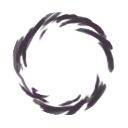
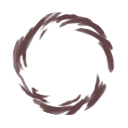
Updated Energy Orn and turned it into a Double Energy Orb that tracks the mouse position

Changed region(s): [[0.0938, 0.0938, 0.9062, 0.5938], [0.1562, 0.5938, 0.8438, 0.9062], [0.3125, 0.25, 0.3438, 0.2812]]

diff --git a/TheM10Robot/src/main/java/M10Robot/characters/DoubleEnergyOrb.java b/TheM10Robot/src/main/java/M10Robot/characters/DoubleEnergyOrb.java
@@ -1,0 +1,180 @@
+package M10Robot.characters;
+
+import M10Robot.patches.RenderButtonOnCardPatch;
+import basemod.abstracts.CustomEnergyOrb;
+import com.badlogic.gdx.Gdx;
+import com.badlogic.gdx.graphics.Color;
+import com.badlogic.gdx.graphics.Texture;
+import com.badlogic.gdx.graphics.g2d.SpriteBatch;
+import com.badlogic.gdx.math.MathUtils;
+import com.badlogic.gdx.math.Vector2;
+import com.evacipated.cardcrawl.modthespire.lib.SpireField;
+import com.evacipated.cardcrawl.modthespire.lib.SpirePatch;
+import com.evacipated.cardcrawl.modthespire.lib.SpirePrefixPatch;
+import com.megacrit.cardcrawl.cards.AbstractCard;
+import com.megacrit.cardcrawl.characters.AbstractPlayer;
+import com.megacrit.cardcrawl.core.Settings;
+import com.megacrit.cardcrawl.dungeons.AbstractDungeon;
+import com.megacrit.cardcrawl.helpers.ImageMaster;
+import com.megacrit.cardcrawl.helpers.input.InputHelper;
+import com.megacrit.cardcrawl.ui.panels.EnergyPanel;
+
+import java.util.HashMap;
+
+public class DoubleEnergyOrb extends CustomEnergyOrb {
+    private static final int SECOND_ORB_W = 128;
+    private static final int PRIMARY_ORB_W = 128;
+    private static final float SECOND_ORB_IMG_SCALE = 0.75F * Settings.scale;
+    private static final float PRIMARY_ORB_IMG_SCALE = 1.15F * Settings.scale;
+    private static final float X_OFFSET = 80f * Settings.scale;
+    private static final float Y_OFFSET = 40f * Settings.scale;
+    private static final float MAX_LEAN_PER_LAYER = 4f * Settings.scale;
+    private static final float MAX_LEAN_AT_DISTANCE = 500f * Settings.scale;
+    protected Texture secondBaseLayer;
+    protected Texture[] secondEnergyLayers;
+    protected Texture[] secondNoEnergyLayers;
+    protected float[] secondLayerSpeeds;
+    protected float[] secondAngles;
+    protected float[] primaryXLean;
+    protected float[] primaryYLean;
+    protected float[] secondaryXLean;
+    protected float[] secondaryYLean;
+
+    public DoubleEnergyOrb(String[] orbTexturePaths, String orbVfxPath, float[] layerSpeeds) {
+        super(orbTexturePaths, orbVfxPath, layerSpeeds);
+        if (orbTexturePaths != null && orbVfxPath != null) {
+            assert orbTexturePaths.length >= 3;
+
+            assert orbTexturePaths.length % 2 == 1;
+
+            int middleIdx = orbTexturePaths.length / 2;
+            System.out.println(middleIdx);
+            this.secondEnergyLayers = new Texture[middleIdx];
+            this.secondNoEnergyLayers = new Texture[middleIdx];
+            this.secondBaseLayer = ImageMaster.loadImage(orbTexturePaths[middleIdx]);
+
+            for(int i = 0; i < middleIdx; ++i) {
+                this.secondEnergyLayers[i] = ImageMaster.loadImage(orbTexturePaths[i]);
+                this.secondNoEnergyLayers[i] = ImageMaster.loadImage(orbTexturePaths[i + middleIdx + 1]);
+            }
+
+            this.orbVfx = ImageMaster.loadImage(orbVfxPath);
+        } else {
+            this.secondEnergyLayers = new Texture[5];
+            this.secondNoEnergyLayers = new Texture[5];
+            this.secondBaseLayer = ImageMaster.ENERGY_RED_LAYER6;
+            this.secondEnergyLayers[0] = ImageMaster.ENERGY_RED_LAYER1;
+            this.secondEnergyLayers[1] = ImageMaster.ENERGY_RED_LAYER2;
+            this.secondEnergyLayers[2] = ImageMaster.ENERGY_RED_LAYER3;
+            this.secondEnergyLayers[3] = ImageMaster.ENERGY_RED_LAYER4;
+            this.secondEnergyLayers[4] = ImageMaster.ENERGY_RED_LAYER5;
+            this.secondNoEnergyLayers[0] = ImageMaster.ENERGY_RED_LAYER1D;
+            this.secondNoEnergyLayers[1] = ImageMaster.ENERGY_RED_LAYER2D;
+            this.secondNoEnergyLayers[2] = ImageMaster.ENERGY_RED_LAYER3D;
+            this.secondNoEnergyLayers[3] = ImageMaster.ENERGY_RED_LAYER4D;
+            this.secondNoEnergyLayers[4] = ImageMaster.ENERGY_RED_LAYER5D;
+        }
+
+        if (layerSpeeds == null) {
+            layerSpeeds = new float[]{-20.0F, 20.0F, -40.0F, 40.0F, 360.0F};
+        }
+
+        this.secondLayerSpeeds = layerSpeeds;
+        this.secondAngles = new float[this.secondLayerSpeeds.length];
+        this.primaryXLean = new float[this.energyLayers.length];
+        this.primaryYLean = new float[this.energyLayers.length];
+        this.secondaryXLean = new float[this.secondEnergyLayers.length];
+        this.secondaryYLean = new float[this.secondEnergyLayers.length];
+
+        assert this.secondEnergyLayers.length == this.secondLayerSpeeds.length;
+
+    }
+
+    public Texture getEnergyImage() {
+        return this.orbVfx;
+    }
+
+    public void updateOrb(int energyCount) {
+        super.updateOrb(energyCount);
+        int d = this.secondAngles.length;
+        for (int i = 0 ; i < this.secondAngles.length ; i++) {
+            if (energyCount == 0) {
+                this.secondAngles[i] -= Gdx.graphics.getDeltaTime() * this.secondLayerSpeeds[d-1-i] / 4.0F;
+            } else {
+                this.secondAngles[i] -= Gdx.graphics.getDeltaTime() * this.secondLayerSpeeds[d-1-i];
+            }
+        }
+    }
+
+    public void renderOrb(SpriteBatch sb, boolean enabled, float current_x, float current_y) {
+        calculateLeanValues(current_x, current_y, enabled);
+        sb.setColor(Color.WHITE);
+        int i;
+        if (enabled) {
+            for(i = 0; i < this.secondEnergyLayers.length; ++i) {
+                sb.draw(this.secondEnergyLayers[i], current_x + secondaryXLean[i] + X_OFFSET - SECOND_ORB_W /2F, current_y + secondaryYLean[i] + Y_OFFSET - SECOND_ORB_W /2F, SECOND_ORB_W /2F, SECOND_ORB_W /2F, SECOND_ORB_W, SECOND_ORB_W, SECOND_ORB_IMG_SCALE, SECOND_ORB_IMG_SCALE, this.secondAngles[i], 0, 0, SECOND_ORB_W, SECOND_ORB_W, false, false);
+            }
+        } else {
+            for(i = 0; i < this.secondNoEnergyLayers.length; ++i) {
+                sb.draw(this.secondNoEnergyLayers[i], current_x + secondaryXLean[i] + X_OFFSET - SECOND_ORB_W /2F, current_y + secondaryYLean[i] + Y_OFFSET - SECOND_ORB_W /2F, SECOND_ORB_W /2F, SECOND_ORB_W /2F, SECOND_ORB_W, SECOND_ORB_W, SECOND_ORB_IMG_SCALE, SECOND_ORB_IMG_SCALE, this.secondAngles[i], 0, 0, SECOND_ORB_W, SECOND_ORB_W, false, false);
+            }
+        }
+        sb.draw(this.secondBaseLayer, current_x + X_OFFSET - SECOND_ORB_W /2F, current_y + Y_OFFSET - SECOND_ORB_W /2F, SECOND_ORB_W /2F, SECOND_ORB_W /2F, SECOND_ORB_W, SECOND_ORB_W, SECOND_ORB_IMG_SCALE, SECOND_ORB_IMG_SCALE, 0.0F, 0, 0, SECOND_ORB_W, SECOND_ORB_W, false, false);
+
+        if (enabled) {
+            for(i = 0; i < this.energyLayers.length; ++i) {
+                sb.draw(this.energyLayers[i], current_x + primaryXLean[i] - PRIMARY_ORB_W/2F, current_y + primaryYLean[i] - PRIMARY_ORB_W/2F, PRIMARY_ORB_W/2F, PRIMARY_ORB_W/2F, PRIMARY_ORB_W, PRIMARY_ORB_W, PRIMARY_ORB_IMG_SCALE, PRIMARY_ORB_IMG_SCALE, this.angles[i], 0, 0, 128, 128, false, false);
+            }
+        } else {
+            for(i = 0; i < this.noEnergyLayers.length; ++i) {
+                sb.draw(this.noEnergyLayers[i], current_x + primaryXLean[i] - PRIMARY_ORB_W/2F, current_y  + primaryYLean[i] - PRIMARY_ORB_W/2F, PRIMARY_ORB_W/2F, PRIMARY_ORB_W/2F, PRIMARY_ORB_W, PRIMARY_ORB_W, PRIMARY_ORB_IMG_SCALE, PRIMARY_ORB_IMG_SCALE, this.angles[i], 0, 0, 128, 128, false, false);
+            }
+        }
+
+        sb.draw(this.baseLayer, current_x - PRIMARY_ORB_W/2F, current_y - PRIMARY_ORB_W/2F, PRIMARY_ORB_W/2F, PRIMARY_ORB_W/2F, PRIMARY_ORB_W, PRIMARY_ORB_W, PRIMARY_ORB_IMG_SCALE, PRIMARY_ORB_IMG_SCALE, 0.0F, 0, 0, 128, 128, false, false);
+    }
+
+    protected void calculateLeanValues(float x, float y, boolean enabled) {
+        if (!enabled) {
+            for (int i = 0 ; i < energyLayers.length ; i++) {
+                primaryXLean[i] = 0;
+                primaryYLean[i] = 0;
+                secondaryXLean[i] = 0;
+                secondaryYLean[i] = 0;
+            }
+        } else {
+            Vector2 pVec = new Vector2(InputHelper.mX - x, InputHelper.mY - y);
+            Vector2 sVec = new Vector2(InputHelper.mX - (x+X_OFFSET), InputHelper.mY - (y+Y_OFFSET));
+            float primaryDist = Math.min(1, pVec.len()/MAX_LEAN_AT_DISTANCE);
+            float secondaryDist = Math.min(1, sVec.len()/MAX_LEAN_AT_DISTANCE);
+            pVec.nor();
+            sVec.nor();
+            for (int i = 0 ; i < energyLayers.length ; i++) {
+                primaryXLean[i] = i * MAX_LEAN_PER_LAYER * primaryDist * pVec.x * PRIMARY_ORB_IMG_SCALE;
+                primaryYLean[i] = i * MAX_LEAN_PER_LAYER * primaryDist * pVec.y * PRIMARY_ORB_IMG_SCALE;
+                secondaryXLean[i] = i * MAX_LEAN_PER_LAYER * secondaryDist * sVec.x * SECOND_ORB_IMG_SCALE;
+                secondaryYLean[i] = i * MAX_LEAN_PER_LAYER * secondaryDist * sVec.y * SECOND_ORB_IMG_SCALE;
+            }
+        }
+    }
+
+    @SpirePatch(clz = AbstractPlayer.class, method = SpirePatch.CLASS)
+    public static class DoubleOrbField {
+        public static SpireField<Boolean> orb = new SpireField<>(() -> null);
+    }
+
+    @SpirePatch(clz = EnergyPanel.class, method = "renderVfx")
+    public static class FlashSecondOrbPatch
+    {
+        @SpirePrefixPatch
+        public static void flashSecondOrb(EnergyPanel __instance, SpriteBatch sb, Texture ___gainEnergyImg, Color ___energyVfxColor, float ___energyVfxScale, float ___energyVfxAngle) {
+            if (EnergyPanel.energyVfxTimer != 0.0F && DoubleOrbField.orb.get(AbstractDungeon.player)) {
+                sb.setBlendFunction(770, 1);
+                sb.setColor(___energyVfxColor);
+                sb.draw(___gainEnergyImg, __instance.current_x + X_OFFSET - SECOND_ORB_W, __instance.current_y + Y_OFFSET - SECOND_ORB_W, SECOND_ORB_W, SECOND_ORB_W, SECOND_ORB_W*2F, SECOND_ORB_W*2F, ___energyVfxScale*SECOND_ORB_IMG_SCALE/PRIMARY_ORB_IMG_SCALE, ___energyVfxScale*SECOND_ORB_IMG_SCALE/PRIMARY_ORB_IMG_SCALE, ___energyVfxAngle - 50.0F, 0, 0, SECOND_ORB_W*2, SECOND_ORB_W*2, true, false);
+                sb.draw(___gainEnergyImg, __instance.current_x + X_OFFSET - SECOND_ORB_W, __instance.current_y + Y_OFFSET - SECOND_ORB_W, SECOND_ORB_W, SECOND_ORB_W, SECOND_ORB_W*2F, SECOND_ORB_W*2F, ___energyVfxScale*SECOND_ORB_IMG_SCALE/PRIMARY_ORB_IMG_SCALE, ___energyVfxScale*SECOND_ORB_IMG_SCALE/PRIMARY_ORB_IMG_SCALE, -___energyVfxAngle, 0, 0, SECOND_ORB_W*2, SECOND_ORB_W*2, false, false);
+                sb.setBlendFunction(770, 771);
+            }
+        }
+    }
+}

diff --git a/TheM10Robot/src/main/java/M10Robot/M10RobotMod.java b/TheM10Robot/src/main/java/M10Robot/M10RobotMod.java
@@ -146,15 +146,15 @@ public class M10RobotMod implements
     public static final String SKILL_BASE = "M10RobotResources/images/512/bg_skill.png"; //
     public static final String POWER_BASE = "M10RobotResources/images/512/bg_power.png"; //
 
-    public static final String ENERGY_ORB = "M10RobotResources/images/512/card_orb.png"; //
+    public static final String ENERGY_ORB = "M10RobotResources/images/512/card_orb_green.png"; //
 
-    public static final String CARD_ENERGY_ORB = "M10RobotResources/images/512/card_small_orb.png"; //
+    public static final String CARD_ENERGY_ORB = "M10RobotResources/images/512/card_small_orb_green.png"; //
 
     public static final String ATTACK_BASE_PORTRAIT = "M10RobotResources/images/1024/bg_attack.png"; //
     public static final String SKILL_BASE_PORTRAIT = "M10RobotResources/images/1024/bg_skill.png"; //
     public static final String POWER_BASE_PORTRAIT = "M10RobotResources/images/1024/bg_power.png"; //
 
-    public static final String ENERGY_ORB_PORTRAIT = "M10RobotResources/images/1024/card_orb.png"; //
+    public static final String ENERGY_ORB_PORTRAIT = "M10RobotResources/images/1024/card_orb_green.png"; //
     
     // Character assets
     //private static final String THE_DEFAULT_BUTTON = "M10RobotResources/images/charSelect/DefaultCharacterButton.png";

diff --git a/TheM10Robot/src/main/java/M10Robot/characters/M10Robot.java b/TheM10Robot/src/main/java/M10Robot/characters/M10Robot.java
@@ -11,6 +11,7 @@ import M10Robot.relics.ProtectiveShell;
 import M10Robot.relics.ModularBody;
 import M10Robot.vfx.StarBreakerVictoryEffect;
 import basemod.ReflectionHacks;
+import basemod.abstracts.CustomEnergyOrb;
 import basemod.abstracts.CustomPlayer;
 import com.badlogic.gdx.graphics.Color;
 import com.badlogic.gdx.graphics.Texture;
@@ -124,8 +125,8 @@ public class M10Robot extends CustomPlayer {
 
     public M10Robot(String name, PlayerClass setClass) {
         //super(name, setClass, orbTextures, "M10RobotResources/images/char/defaultCharacter/orb/vfxm.png", null, idleAnimation);
-        super(name, setClass, orbTextures, "M10RobotResources/images/char/tachy/orb/vfx.png", layerSpeeds, new CustomSpriterAnimation(ANIM_FILE));
-
+        super(name, setClass, new DoubleEnergyOrb(orbTextures, "M10RobotResources/images/char/tachy/orb/vfx.png", layerSpeeds), new CustomSpriterAnimation(ANIM_FILE));
+        DoubleEnergyOrb.DoubleOrbField.orb.set(this, true);
         Player.PlayerListener listener = new CustomAnimationListener(this);
         ((CustomSpriterAnimation)this.animation).myPlayer.addListener(listener);
 
